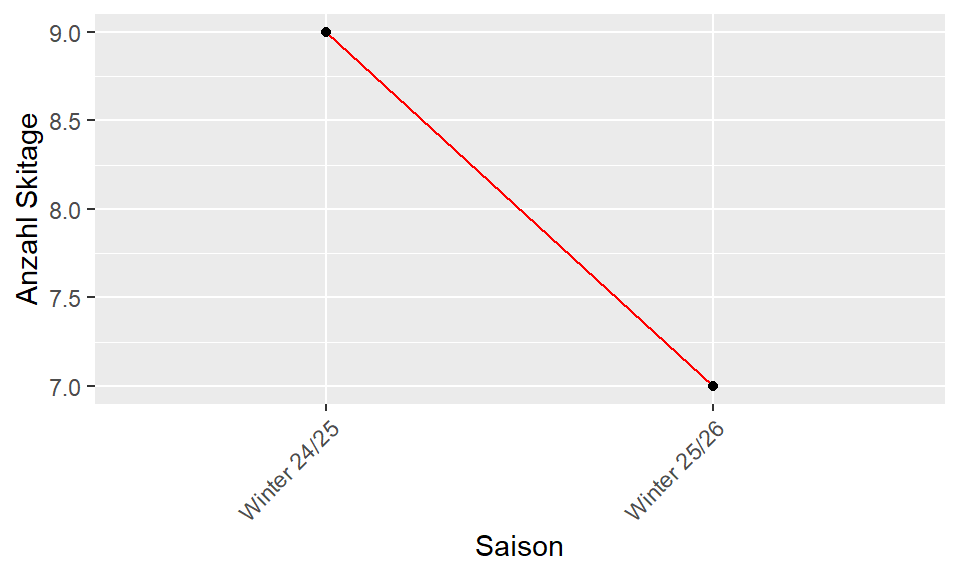
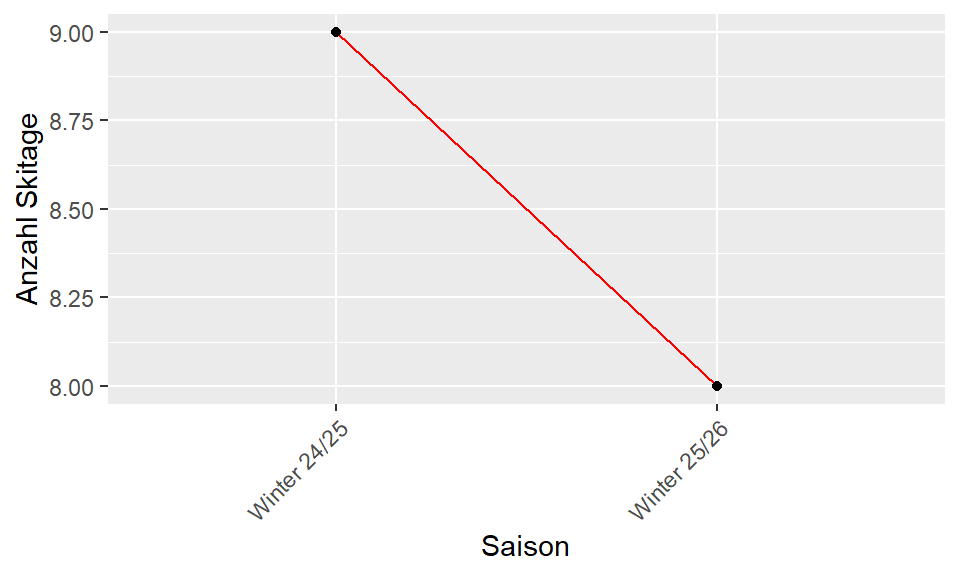
updatge

diff --git a/docs/skifahren.html b/docs/skifahren.html
@@ -7,6 +7,7 @@
 <meta name="viewport" content="width=device-width, initial-scale=1.0, user-scalable=yes">
 
 <meta name="author" content="Kaspar Rufibach">
+<meta name="dcterms.date" content="2026-01-02">
 
 <title>Sport Kaspar - Skifahren</title>
 <style>
@@ -203,7 +204,7 @@ ul.task-list li input[type="checkbox"] {
     <div>
     <div class="quarto-title-meta-heading">Published</div>
     <div class="quarto-title-meta-contents">
-      <p class="date">Invalid Date</p>
+      <p class="date">January 2, 2026</p>
     </div>
   </div>
   
@@ -264,9 +265,9 @@ ul.task-list li input[type="checkbox"] {
 </tr>
 <tr class="even">
 <td style="text-align: center;">Winter 25/26</td>
-<td style="text-align: center;">7</td>
-<td style="text-align: center;">27900</td>
-<td style="text-align: center;">3986</td>
+<td style="text-align: center;">8</td>
+<td style="text-align: center;">33063</td>
+<td style="text-align: center;">4133</td>
 </tr>
 </tbody>
 </table>
@@ -362,6 +363,15 @@ ul.task-list li input[type="checkbox"] {
 <td style="text-align: center;"></td>
 <td style="text-align: center;">NA</td>
 </tr>
+<tr class="even">
+<td style="text-align: center;">8</td>
+<td style="text-align: center;">Hasliberg</td>
+<td style="text-align: center;"></td>
+<td style="text-align: center;">2026-01-01</td>
+<td style="text-align: center;">5163</td>
+<td style="text-align: center;"></td>
+<td style="text-align: center;">NA</td>
+</tr>
 </tbody>
 </table>
 </div>
@@ -413,8 +423,8 @@ ul.task-list li input[type="checkbox"] {
 <td style="text-align: center;">3</td>
 <td style="text-align: center;">Hasliberg</td>
 <td style="text-align: center;"></td>
-<td style="text-align: center;">2025-12-18</td>
-<td style="text-align: center;">4335</td>
+<td style="text-align: center;">2026-01-01</td>
+<td style="text-align: center;">5163</td>
 <td style="text-align: center;"></td>
 <td style="text-align: center;">NA</td>
 </tr>
@@ -422,8 +432,8 @@ ul.task-list li input[type="checkbox"] {
 <td style="text-align: center;">4</td>
 <td style="text-align: center;">Hasliberg</td>
 <td style="text-align: center;"></td>
-<td style="text-align: center;">2025-12-19</td>
-<td style="text-align: center;">4125</td>
+<td style="text-align: center;">2025-12-18</td>
+<td style="text-align: center;">4335</td>
 <td style="text-align: center;"></td>
 <td style="text-align: center;">NA</td>
 </tr>
@@ -431,8 +441,8 @@ ul.task-list li input[type="checkbox"] {
 <td style="text-align: center;">5</td>
 <td style="text-align: center;">Hasliberg</td>
 <td style="text-align: center;"></td>
-<td style="text-align: center;">2025-12-23</td>
-<td style="text-align: center;">3158</td>
+<td style="text-align: center;">2025-12-19</td>
+<td style="text-align: center;">4125</td>
 <td style="text-align: center;"></td>
 <td style="text-align: center;">NA</td>
 </tr>
@@ -440,13 +450,22 @@ ul.task-list li input[type="checkbox"] {
 <td style="text-align: center;">6</td>
 <td style="text-align: center;">Hasliberg</td>
 <td style="text-align: center;"></td>
-<td style="text-align: center;">2025-12-28</td>
-<td style="text-align: center;">2444</td>
+<td style="text-align: center;">2025-12-23</td>
+<td style="text-align: center;">3158</td>
 <td style="text-align: center;"></td>
 <td style="text-align: center;">NA</td>
 </tr>
 <tr class="odd">
 <td style="text-align: center;">7</td>
+<td style="text-align: center;">Hasliberg</td>
+<td style="text-align: center;"></td>
+<td style="text-align: center;">2025-12-28</td>
+<td style="text-align: center;">2444</td>
+<td style="text-align: center;"></td>
+<td style="text-align: center;">NA</td>
+</tr>
+<tr class="even">
+<td style="text-align: center;">8</td>
 <td style="text-align: center;">Hasliberg</td>
 <td style="text-align: center;"></td>
 <td style="text-align: center;">2025-12-25</td>

diff --git a/docs/zusammenfassungen.html b/docs/zusammenfassungen.html
@@ -7,6 +7,7 @@
 <meta name="viewport" content="width=device-width, initial-scale=1.0, user-scalable=yes">
 
 <meta name="author" content="Kaspar Rufibach">
+<meta name="dcterms.date" content="2026-01-02">
 
 <title>Sport Kaspar - Zusammenfassungen Sport</title>
 <style>
@@ -198,7 +199,7 @@ ul.task-list li input[type="checkbox"] {
     <div>
     <div class="quarto-title-meta-heading">Published</div>
     <div class="quarto-title-meta-contents">
-      <p class="date">Invalid Date</p>
+      <p class="date">January 2, 2026</p>
     </div>
   </div>
   
@@ -208,7 +209,7 @@ ul.task-list li input[type="checkbox"] {
 
 </header>
 
-<!-- Numbers labelled 2025 are linearly extrapolated from 2025-12-31 to the full year of 2024. -->
+<!-- Numbers labelled 2025 are linearly extrapolated from 2026-01-02 to the full year of 2024. -->
 <section id="jaehrliche-zusammenfassungen" class="level1" data-number="1">
 <h1 data-number="1"><span class="header-section-number">1</span> Jaehrliche Zusammenfassungen</h1>
 <div class="tabset-margin-container"></div><div class="panel-tabset nav-pills">

diff --git a/docs/summary_winter.html b/docs/summary_winter.html
@@ -7,6 +7,7 @@
 <meta name="viewport" content="width=device-width, initial-scale=1.0, user-scalable=yes">
 
 <meta name="author" content="Kaspar Rufibach">
+<meta name="dcterms.date" content="2026-01-02">
 
 <title>Sport Kaspar - Zusammenfassung Wintersaison</title>
 <style>
@@ -196,7 +197,7 @@ ul.task-list li input[type="checkbox"] {
     <div>
     <div class="quarto-title-meta-heading">Published</div>
     <div class="quarto-title-meta-contents">
-      <p class="date">Invalid Date</p>
+      <p class="date">January 2, 2026</p>
     </div>
   </div>
   
@@ -227,7 +228,7 @@ ul.task-list li input[type="checkbox"] {
 </tr>
 <tr class="even">
 <td style="text-align: center;">Alpinski</td>
-<td style="text-align: center;">7</td>
+<td style="text-align: center;">8</td>
 </tr>
 <tr class="odd">
 <td style="text-align: center;">Langlauf</td>
@@ -235,7 +236,7 @@ ul.task-list li input[type="checkbox"] {
 </tr>
 <tr class="even">
 <td style="text-align: center;">Total</td>
-<td style="text-align: center;">25</td>
+<td style="text-align: center;">26</td>
 </tr>
 </tbody>
 </table>

diff --git a/docs/kieser.html b/docs/kieser.html
@@ -7,6 +7,7 @@
 <meta name="viewport" content="width=device-width, initial-scale=1.0, user-scalable=yes">
 
 <meta name="author" content="Kaspar Rufibach">
+<meta name="dcterms.date" content="2026-01-02">
 
 <title>Sport Kaspar - Kieser Training</title>
 <style>
@@ -198,7 +199,7 @@ ul.task-list li input[type="checkbox"] {
     <div>
     <div class="quarto-title-meta-heading">Published</div>
     <div class="quarto-title-meta-contents">
-      <p class="date">Invalid Date</p>
+      <p class="date">January 2, 2026</p>
     </div>
   </div>
   

diff --git a/docs/travel.html b/docs/travel.html
@@ -7,6 +7,7 @@
 <meta name="viewport" content="width=device-width, initial-scale=1.0, user-scalable=yes">
 
 <meta name="author" content="Kaspar Rufibach">
+<meta name="dcterms.date" content="2026-01-02">
 
 <title>Sport Kaspar - Tage im Ausland</title>
 <style>
@@ -190,7 +191,7 @@ ul.task-list li input[type="checkbox"] {
     <div>
     <div class="quarto-title-meta-heading">Published</div>
     <div class="quarto-title-meta-contents">
-      <p class="date">Invalid Date</p>
+      <p class="date">January 2, 2026</p>
     </div>
   </div>
   

diff --git a/docs/bikerun.html b/docs/bikerun.html
@@ -7,6 +7,7 @@
 <meta name="viewport" content="width=device-width, initial-scale=1.0, user-scalable=yes">
 
 <meta name="author" content="Kaspar Rufibach">
+<meta name="dcterms.date" content="2026-01-02">
 
 <title>Sport Kaspar - Bike and run</title>
 <style>
@@ -204,7 +205,7 @@ ul.task-list li input[type="checkbox"] {
     <div>
     <div class="quarto-title-meta-heading">Published</div>
     <div class="quarto-title-meta-contents">
-      <p class="date">Invalid Date</p>
+      <p class="date">January 2, 2026</p>
     </div>
   </div>
   

diff --git a/docs/saisonstart.html b/docs/saisonstart.html
@@ -7,6 +7,7 @@
 <meta name="viewport" content="width=device-width, initial-scale=1.0, user-scalable=yes">
 
 <meta name="author" content="Kaspar Rufibach">
+<meta name="dcterms.date" content="2026-01-02">
 
 <title>Sport Kaspar - Saisonstart</title>
 <style>
@@ -200,7 +201,7 @@ ul.task-list li input[type="checkbox"] {
     <div>
     <div class="quarto-title-meta-heading">Published</div>
     <div class="quarto-title-meta-contents">
-      <p class="date">Invalid Date</p>
+      <p class="date">January 2, 2026</p>
     </div>
   </div>
   

diff --git a/docs/wettkaempfe.html b/docs/wettkaempfe.html
@@ -7,6 +7,7 @@
 <meta name="viewport" content="width=device-width, initial-scale=1.0, user-scalable=yes">
 
 <meta name="author" content="Kaspar Rufibach">
+<meta name="dcterms.date" content="2026-01-02">
 
 <title>Sport Kaspar - Wettkaempfe</title>
 <style>
@@ -220,7 +221,7 @@ ul.task-list li input[type="checkbox"] {
     <div>
     <div class="quarto-title-meta-heading">Published</div>
     <div class="quarto-title-meta-contents">
-      <p class="date">Invalid Date</p>
+      <p class="date">January 2, 2026</p>
     </div>
   </div>
   

diff --git a/docs/skitouren.html b/docs/skitouren.html
@@ -7,6 +7,7 @@
 <meta name="viewport" content="width=device-width, initial-scale=1.0, user-scalable=yes">
 
 <meta name="author" content="Kaspar Rufibach">
+<meta name="dcterms.date" content="2026-01-02">
 
 <title>Sport Kaspar - Skitouren</title>
 <style>
@@ -258,7 +259,7 @@ ul.task-list li input[type="checkbox"] {
     <div>
     <div class="quarto-title-meta-heading">Published</div>
     <div class="quarto-title-meta-contents">
-      <p class="date">Invalid Date</p>
+      <p class="date">January 2, 2026</p>
     </div>
   </div>
   

diff --git a/docs/langlauf.html b/docs/langlauf.html
@@ -7,6 +7,7 @@
 <meta name="viewport" content="width=device-width, initial-scale=1.0, user-scalable=yes">
 
 <meta name="author" content="Kaspar Rufibach">
+<meta name="dcterms.date" content="2026-01-02">
 
 <title>Sport Kaspar - Langlauf</title>
 <style>
@@ -209,7 +210,7 @@ ul.task-list li input[type="checkbox"] {
     <div>
     <div class="quarto-title-meta-heading">Published</div>
     <div class="quarto-title-meta-contents">
-      <p class="date">Invalid Date</p>
+      <p class="date">January 2, 2026</p>
     </div>
   </div>
   

diff --git a/docs/bike.html b/docs/bike.html
@@ -7,6 +7,7 @@
 <meta name="viewport" content="width=device-width, initial-scale=1.0, user-scalable=yes">
 
 <meta name="author" content="Kaspar Rufibach">
+<meta name="dcterms.date" content="2026-01-02">
 
 <title>Sport Kaspar - Bike</title>
 <style>
@@ -269,7 +270,7 @@ ul.task-list li input[type="checkbox"] {
     <div>
     <div class="quarto-title-meta-heading">Published</div>
     <div class="quarto-title-meta-contents">
-      <p class="date">Invalid Date</p>
+      <p class="date">January 2, 2026</p>
     </div>
   </div>
   

diff --git a/docs/hike.html b/docs/hike.html
@@ -7,6 +7,7 @@
 <meta name="viewport" content="width=device-width, initial-scale=1.0, user-scalable=yes">
 
 <meta name="author" content="Kaspar Rufibach">
+<meta name="dcterms.date" content="2026-01-02">
 
 <title>Sport Kaspar - Hike</title>
 <style>
@@ -252,7 +253,7 @@ ul.task-list li input[type="checkbox"] {
     <div>
     <div class="quarto-title-meta-heading">Published</div>
     <div class="quarto-title-meta-contents">
-      <p class="date">Invalid Date</p>
+      <p class="date">January 2, 2026</p>
     </div>
   </div>
   
